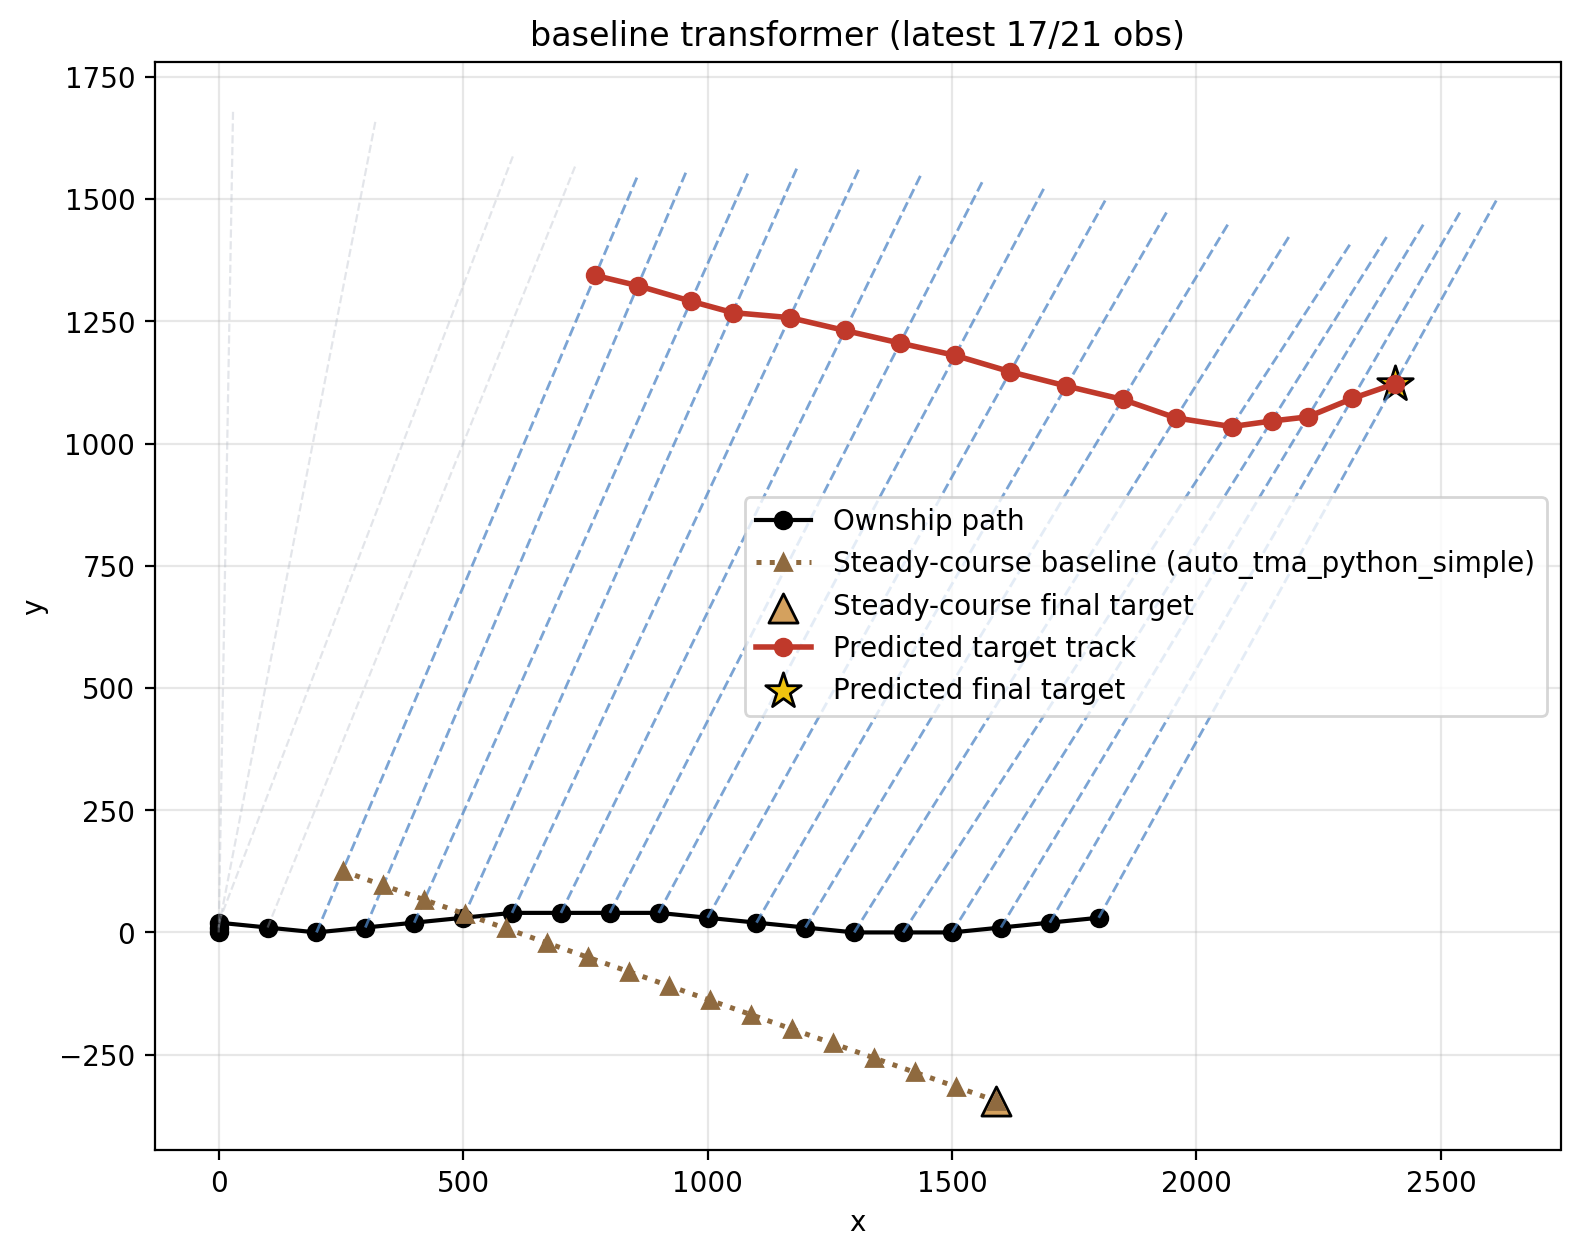
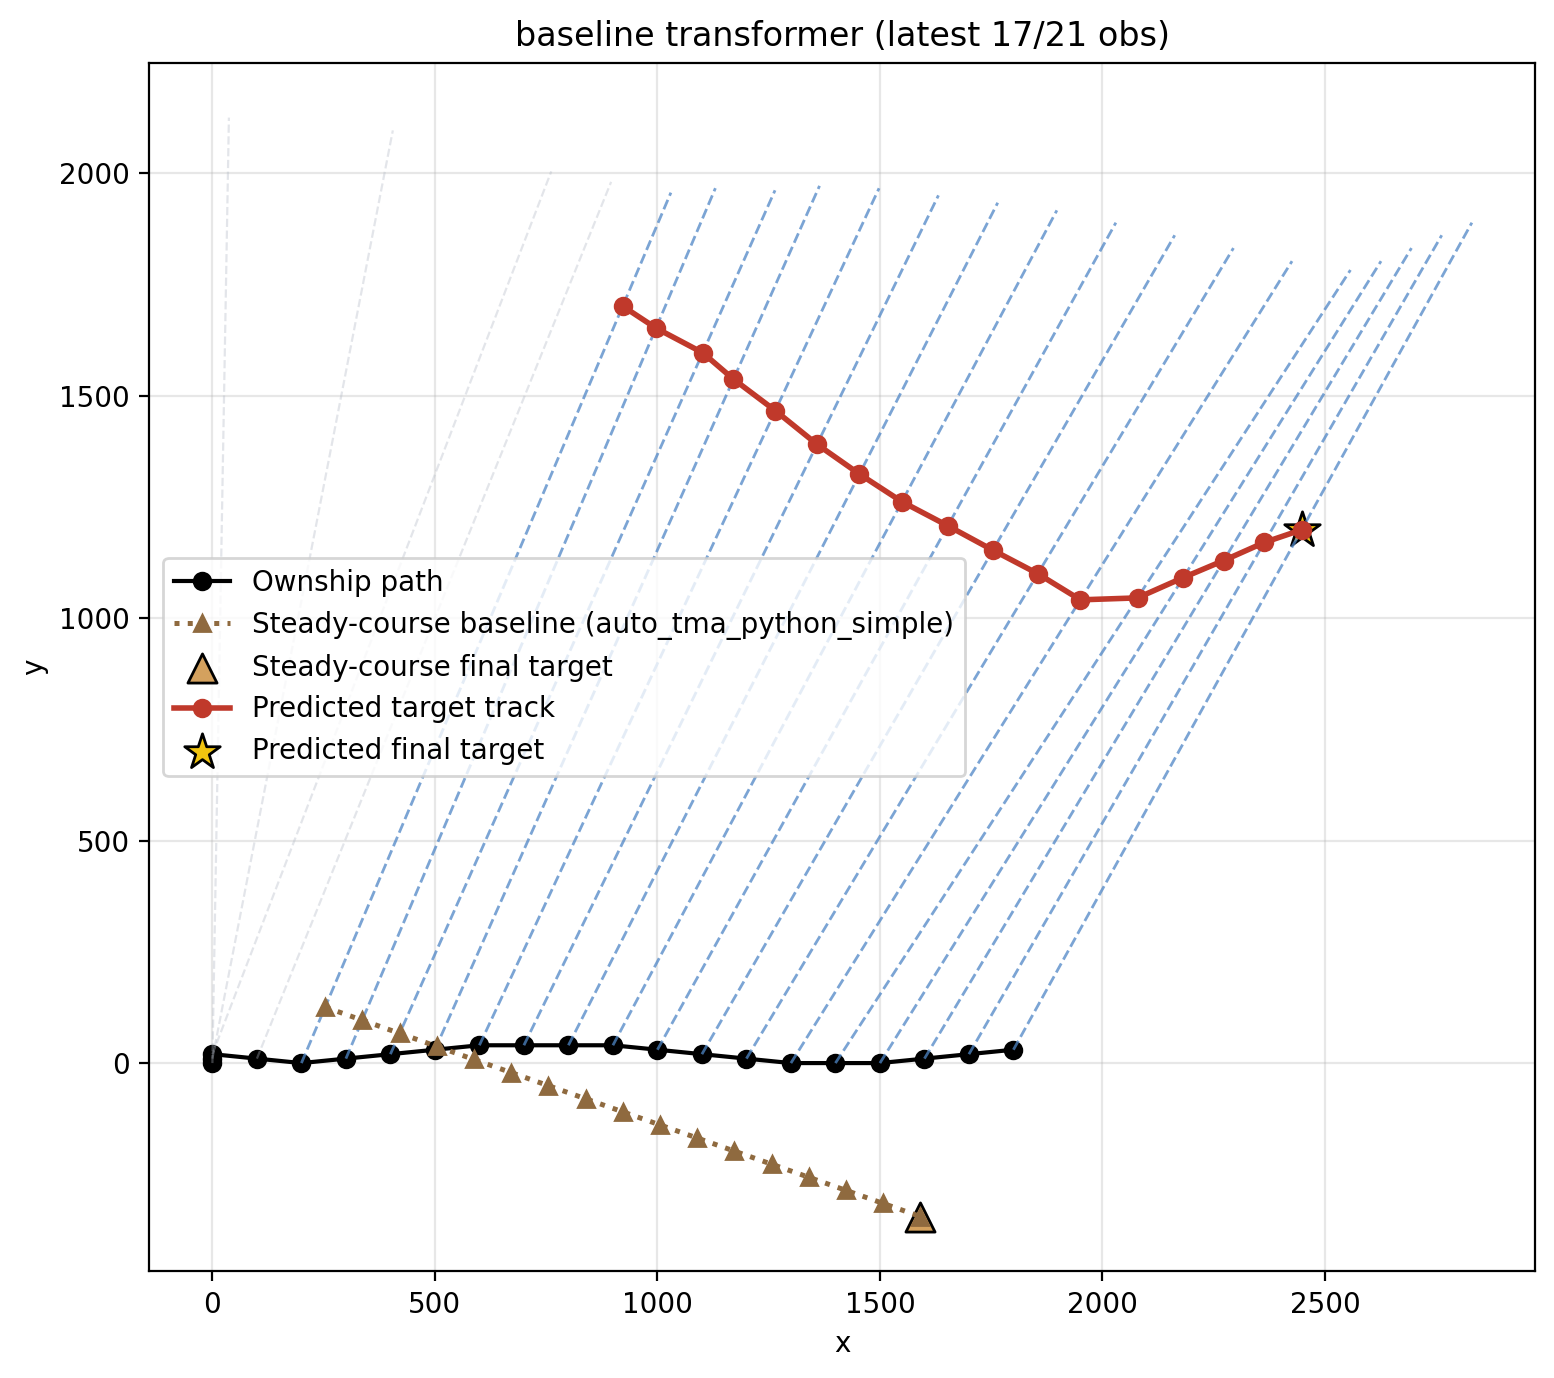
trained on hard dataset for 100 epochs

diff --git a/README.md b/README.md
@@ -1,6 +1,8 @@
 # Auto-TMA-DeepLearning
 
 Deep-learning bearing-only target motion analysis with synthetic training, checkpointed transformer regressors, and visualization for numeric or image-derived observations.
+![image0](outputs/prediction_from_validation.png)
+![image1](outputs/prediction_from_file.png)
 
 ## Scope
 Implemented: